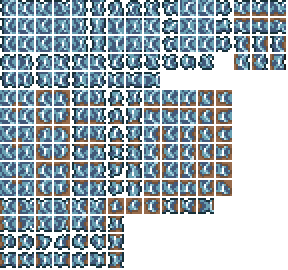
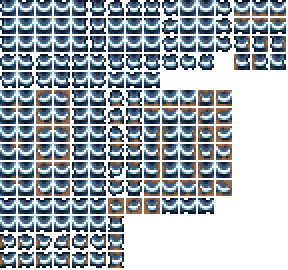
Update Damascus Ore

diff --git a/Tiles/DamascusOreTile.cs b/Tiles/DamascusOreTile.cs
@@ -3,7 +3,7 @@ using Terraria;
 using Terraria.ID;
 using Terraria.Localization;
 using Terraria.ModLoader;
-using UniverseOfSwordsMod.Items.Materials;
+using UniverseOfSwordsMod.Dusts;
 
 namespace UniverseOfSwordsMod.Tiles;
 
@@ -21,11 +21,9 @@ public class DamascusOreTile : ModTile
 		Main.tileShine[Type] = 975;
 		
 		HitSound = SoundID.Tink;
-		DustType = ModContent.DustType<Dusts.DamascusSparkle>();
-		//ItemDrop/* tModPorter Note: Removed. Tiles and walls will drop the item which places them automatically. Use RegisterItemDrop to alter the automatic drop if necessary. */ = ModContent.ItemType<DamascusOre>();
+		DustType = ModContent.DustType<DamascusSparkle>();		
 		
 		LocalizedText name = CreateMapEntryName();
-		// name.SetDefault("Damascus Ore");
 		
 		AddMapEntry(new Color(246, 249, 250), name);
 	    MinPick = 40;
